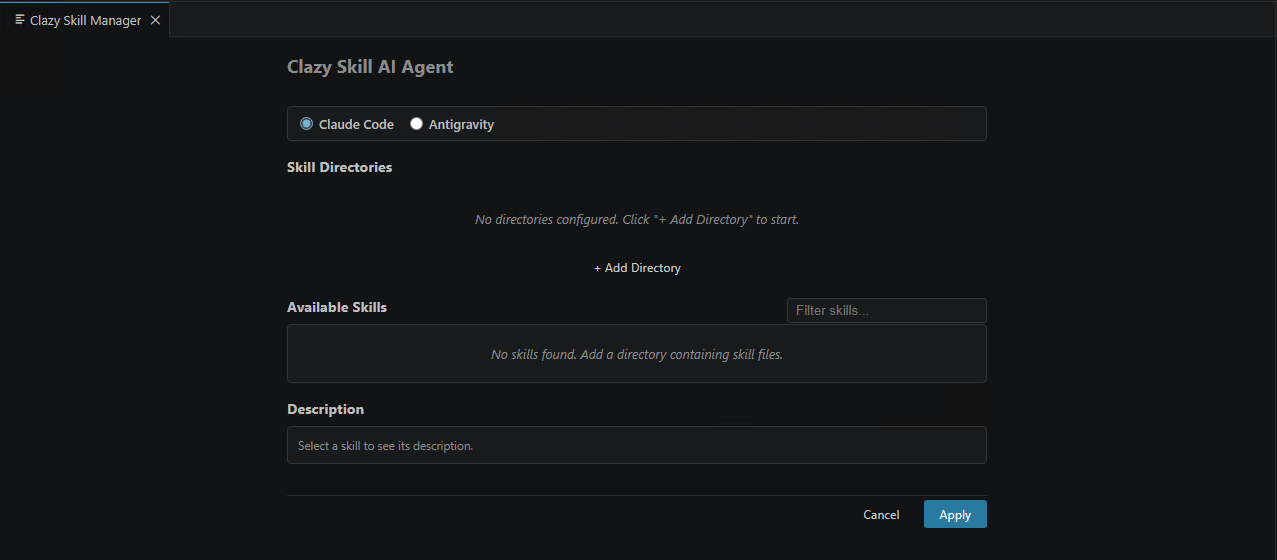
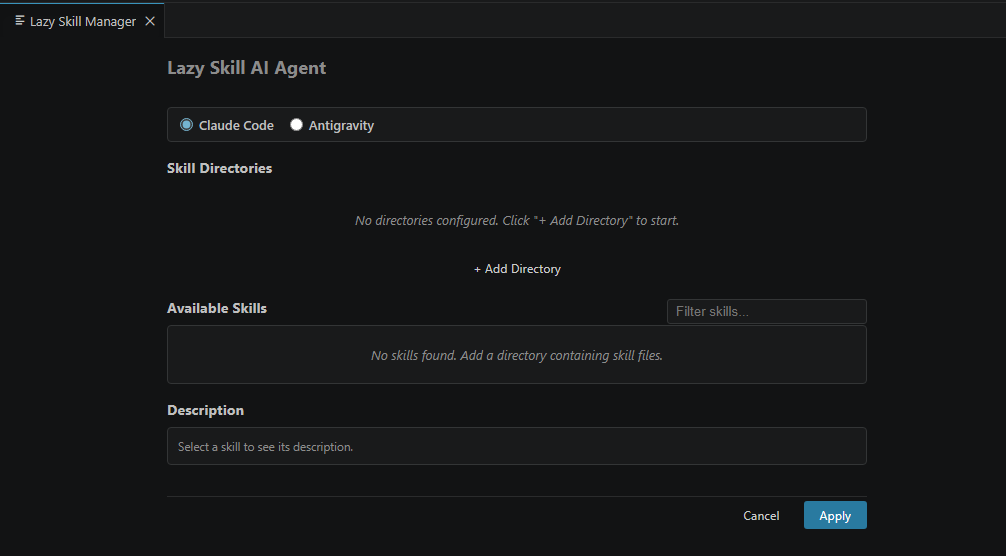
update code

diff --git a/extension/src/webviewPanel.ts b/extension/src/webviewPanel.ts
@@ -3,9 +3,9 @@ import { SkillInfo, TargetPlatform, WebviewMessage, ExtensionMessage } from './t
 import { scanDirectories, getInstalledSkillNames, markInstalled } from './skillScanner';
 import { applyChanges } from './skillInstaller';
 
-export class ClazySkillPanel {
-  public static readonly viewType = 'clazySkillManager';
-  private static instance: ClazySkillPanel | undefined;
+export class LazySkillPanel {
+  public static readonly viewType = 'lazySkillManager';
+  private static instance: LazySkillPanel | undefined;
 
   private readonly panel: vscode.WebviewPanel;
   private readonly extensionUri: vscode.Uri;
@@ -16,14 +16,14 @@ export class ClazySkillPanel {
   public static createOrShow(extensionUri: vscode.Uri): void {
     const column = vscode.window.activeTextEditor?.viewColumn ?? vscode.ViewColumn.One;
 
-    if (ClazySkillPanel.instance) {
-      ClazySkillPanel.instance.panel.reveal(column);
+    if (LazySkillPanel.instance) {
+      LazySkillPanel.instance.panel.reveal(column);
       return;
     }
 
     const panel = vscode.window.createWebviewPanel(
-      ClazySkillPanel.viewType,
-      'Clazy Skill Manager',
+      LazySkillPanel.viewType,
+      'Lazy Skill Manager',
       column,
       {
         enableScripts: true,
@@ -32,7 +32,7 @@ export class ClazySkillPanel {
       },
     );
 
-    ClazySkillPanel.instance = new ClazySkillPanel(panel, extensionUri);
+    LazySkillPanel.instance = new LazySkillPanel(panel, extensionUri);
   }
 
   private constructor(panel: vscode.WebviewPanel, extensionUri: vscode.Uri) {
@@ -51,7 +51,7 @@ export class ClazySkillPanel {
   }
 
   private dispose(): void {
-    ClazySkillPanel.instance = undefined;
+    LazySkillPanel.instance = undefined;
     this.panel.dispose();
     for (const d of this.disposables) {
       d.dispose();
@@ -64,7 +64,7 @@ export class ClazySkillPanel {
   }
 
   private getDirectories(): string[] {
-    const config = vscode.workspace.getConfiguration('clazy-skill-ai-agent');
+    const config = vscode.workspace.getConfiguration('lazy-skill-ai-agent');
     return config.get<string[]>('skillDirectories', []);
   }
 
@@ -110,7 +110,7 @@ export class ClazySkillPanel {
           const newDir = uris[0].fsPath;
           if (!dirs.includes(newDir)) {
             dirs.push(newDir);
-            const config = vscode.workspace.getConfiguration('clazy-skill-ai-agent');
+            const config = vscode.workspace.getConfiguration('lazy-skill-ai-agent');
             await config.update('skillDirectories', dirs, vscode.ConfigurationTarget.Global);
           }
           await this.refresh();
@@ -120,7 +120,7 @@ export class ClazySkillPanel {
 
       case 'removeDirectory': {
         const dirs = this.getDirectories().filter(d => d !== msg.directory);
-        const config = vscode.workspace.getConfiguration('clazy-skill-ai-agent');
+        const config = vscode.workspace.getConfiguration('lazy-skill-ai-agent');
         await config.update('skillDirectories', dirs, vscode.ConfigurationTarget.Global);
         await this.refresh();
         break;
@@ -175,11 +175,11 @@ export class ClazySkillPanel {
     content="default-src 'none'; style-src ${webview.cspSource} 'nonce-${nonce}'; script-src 'nonce-${nonce}';">
   <meta name="viewport" content="width=device-width, initial-scale=1.0">
   <link href="${cssUri}" rel="stylesheet">
-  <title>Clazy Skill Manager</title>
+  <title>Lazy Skill Manager</title>
 </head>
 <body>
   <div class="container">
-    <h2>Clazy Skill AI Agent</h2>
+    <h2>Lazy Skill AI Agent</h2>
 
     <section class="platform-section">
       <label class="radio-label">

diff --git a/extension/src/extension.ts b/extension/src/extension.ts
@@ -1,9 +1,9 @@
 import * as vscode from 'vscode';
-import { ClazySkillPanel } from './webviewPanel';
+import { LazySkillPanel } from './webviewPanel';
 
 export function activate(context: vscode.ExtensionContext) {
-  const command = vscode.commands.registerCommand('clazy-skill.openManager', () => {
-    ClazySkillPanel.createOrShow(context.extensionUri);
+  const command = vscode.commands.registerCommand('lazy-skill.openManager', () => {
+    LazySkillPanel.createOrShow(context.extensionUri);
   });
 
   context.subscriptions.push(command);

diff --git a/app/renderer/index.html b/app/renderer/index.html
@@ -3,13 +3,13 @@
 <head>
   <meta charset="UTF-8">
   <meta http-equiv="Content-Security-Policy" content="default-src 'self'; style-src 'self' 'unsafe-inline';">
-  <title>Clazy Skill AI Agent</title>
+  <title>Lazy Skill AI Agent</title>
   <link rel="stylesheet" href="main.css">
 </head>
 <body>
   <div class="container">
     <header>
-      <h1>Clazy Skill AI Agent</h1>
+      <h1>Lazy Skill AI Agent</h1>
     </header>
 
     <section class="project-section">

diff --git a/app/src/main.ts b/app/src/main.ts
@@ -11,7 +11,7 @@ function createWindow(): void {
   mainWindow = new BrowserWindow({
     width: 900,
     height: 750,
-    title: 'Clazy Skill AI Agent',
+    title: 'Lazy Skill AI Agent',
     webPreferences: {
       preload: path.join(__dirname, 'preload.js'),
       contextIsolation: true,

diff --git a/app/src/preload.ts b/app/src/preload.ts
@@ -16,6 +16,6 @@ const api = {
     ipcRenderer.invoke('skills:apply', allSkills, selectedIds, projectPath),
 };
 
-contextBridge.exposeInMainWorld('clazyApi', api);
+contextBridge.exposeInMainWorld('lazyApi', api);
 
-export type ClazyApi = typeof api;
+export type LazyApi = typeof api;

diff --git a/app/renderer/main.js b/app/renderer/main.js
@@ -1,5 +1,5 @@
 // @ts-check
-const api = window.clazyApi;
+const api = window.lazyApi;
 
 /** @typedef {{id:string,name:string,description:string,sourcePath:string,sourceDir:string,format:string,isInstalled:boolean,body:string}} SkillInfo */
 

diff --git a/README.md b/README.md
@@ -1,12 +1,12 @@
-# Clazy Skill AI Agent
+# Lazy Skill AI Agent
 
 A tool to manage AI skills for **Claude Code** and **Antigravity**. Browse skills from multiple source directories and add/remove them from your project through a visual interface.
 
-![Clazy Skill Manager screenshot](Resource/image.png)
+![Lazy Skill Manager screenshot](Resource/image.png)
 
 Two versions are available:
 
-- **[extension/](extension/)** — VS Code extension ([Install from Marketplace](https://marketplace.visualstudio.com/items?itemName=dn9uy3n.clazy-skill-ai-agent))
+- **[extension/](extension/)** — VS Code extension ([Install from Marketplace](https://marketplace.visualstudio.com/items?itemName=dn9uy3n.lazy-skill-ai-agent))
 - **[app/](app/)** — Desktop application (standalone, runs on Windows / macOS / Linux)
 
 ## Skill Directory Structure
@@ -44,15 +44,36 @@ When applied, each skill is copied to `{project}/.claude/commands/{skill-name}.m
 
 ### Install from Marketplace (easiest)
 
-Open VS Code / Antigravity → Extensions tab → search **"Clazy Skill AI Agent"**, or visit:
+Open VS Code / Antigravity → Extensions tab → search **"Lazy Skill AI Agent"**, or visit:
 
-👉 https://marketplace.visualstudio.com/items?itemName=dn9uy3n.clazy-skill-ai-agent
+👉 https://marketplace.visualstudio.com/items?itemName=dn9uy3n.lazy-skill-ai-agent
 
 Or install from CLI:
 
 ```bash
-code --install-extension dn9uy3n.clazy-skill-ai-agent
+code --install-extension dn9uy3n.lazy-skill-ai-agent
 ```
+
+#### 🪐 Using Antigravity? Enable the Microsoft Marketplace first
+
+Antigravity does not ship with the Microsoft VS Code Marketplace enabled by default. To install any extension from the Microsoft Marketplace (including this one), add the following entries to your Antigravity `settings.json`:
+
+```json
+{
+  "extensions.gallery.serviceUrl": "https://marketplace.visualstudio.com/_apis/public/gallery",
+  "extensions.gallery.itemUrl": "https://marketplace.visualstudio.com/items"
+}
+```
+
+**How to open `settings.json`:**
+
+1. `Ctrl+Shift+P` (or `Cmd+Shift+P` on macOS)
+2. Type: **Preferences: Open User Settings (JSON)**
+3. Add the two lines above, save, and **restart Antigravity**
+
+After restart, open the Extensions tab and search for **"Lazy Skill AI Agent"** — the extension will now appear and can be installed like on regular VS Code.
+
+> ⚠ Per Microsoft's marketplace terms, only Microsoft products (VS Code, Azure Data Studio, etc.) are officially allowed to use this gallery. Use at your own discretion.
 
 ### Build & Install from source
 
@@ -65,14 +86,14 @@ npm run package       # Produces a .vsix file
 
 Install into VS Code:
 ```bash
-code --install-extension clazy-skill-ai-agent-0.1.0.vsix
+code --install-extension lazy-skill-ai-agent-0.1.0.vsix
 ```
 
 Or via UI: **Extensions tab → `...` menu → Install from VSIX...**
 
 For Antigravity:
 ```bash
-antigravity --install-extension clazy-skill-ai-agent-0.1.0.vsix
+antigravity --install-extension lazy-skill-ai-agent-0.1.0.vsix
 ```
 
 ### Development Mode
@@ -81,7 +102,7 @@ Open the project in VS Code → press `F5` → select the **"Run Extension"** la
 
 ### Usage
 
-`Ctrl+Shift+P` → **Clazy: Open Skill Manager**
+`Ctrl+Shift+P` → **Lazy: Open Skill Manager**
 
 ---
 
@@ -95,8 +116,8 @@ Get the latest installer from the [GitHub Releases](../../releases) page:
 
 | OS | File |
 |----|------|
-| Windows | `Clazy Skill AI Agent Setup X.Y.Z.exe` |
-| Linux | `clazy-skill-ai-agent-app-X.Y.Z.tar.gz` |
+| Windows | `Lazy Skill AI Agent Setup X.Y.Z.exe` |
+| Linux | `lazy-skill-ai-agent-app-X.Y.Z.tar.gz` |
 
 ### Run in Development Mode
 
@@ -130,9 +151,9 @@ Installers are placed in `app/dist/`.
 
 | OS | Path |
 |----|------|
-| Windows | `%APPDATA%\Clazy Skill AI Agent\config.json` |
-| macOS | `~/Library/Application Support/Clazy Skill AI Agent/config.json` |
-| Linux | `~/.config/Clazy Skill AI Agent/config.json` |
+| Windows | `%APPDATA%\Lazy Skill AI Agent\config.json` |
+| macOS | `~/Library/Application Support/Lazy Skill AI Agent/config.json` |
+| Linux | `~/.config/Lazy Skill AI Agent/config.json` |
 
 ### Usage
 
@@ -159,7 +180,7 @@ Installers are placed in `app/dist/`.
 ## Repository Layout
 
 ```
-clazy-skill-ai-agent/
+lazy-skill-ai-agent/
 ├── extension/           # VS Code extension
 │   ├── src/
 │   ├── media/

diff --git a/extension/CLAUDE.md b/extension/CLAUDE.md
@@ -1,4 +1,4 @@
-# Clazy Skill AI Agent
+# Lazy Skill AI Agent
 
 VS Code extension to manage AI skills for Claude Code and Antigravity.
 
@@ -30,4 +30,4 @@ npm run package   # Build .vsix
 
 ## Testing
 
-Press F5 in VS Code to launch Extension Development Host. Run command "Clazy: Open Skill Manager".
+Press F5 in VS Code to launch Extension Development Host. Run command "Lazy: Open Skill Manager".
